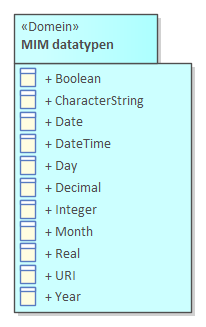
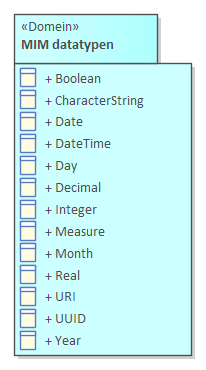
MIMCM-MIM-1.0-0-20240216-20260206-131741

Changed region(s): [[0.0583, 0.0306, 0.9612, 0.9786]]

diff --git a/data/mim-cat.respec.html b/data/mim-cat.respec.html
@@ -1,92 +1,169 @@
-<!DOCTYPE HTML><section id="cat" class="normative"><h2>Gegevensdefinitie</h2><!--MIMLM-MIM-1.0-0-20240216-20250930-105719 imvertor 4.4.0--><section id="EAID_17883B31_A5DA_413b_8BC8_4048AE36E1BD"><h3>   MIM datatypen - overzicht</h3><div class="imageinfo overview"><figure class="uml-diagram"><img id="EAID_17883B31_A5DA_413b_8BC8_4048AE36E1BD" src="data/Images/EAID_17883B31_A5DA_413b_8BC8_4048AE36E1BD.png" usemap="#imagemap-EAID_17883B31_A5DA_413b_8BC8_4048AE36E1BD" alt="Diagram: Overzicht van de primitieve datatypen uit het MIM model"><figcaption> ‒ Diagram: MIM datatypen</figcaption></figure><map name="imagemap-EAID_17883B31_A5DA_413b_8BC8_4048AE36E1BD"><area shape="rect" alt="Year" coords="14,14,137,96" href="#global_class_MIMdatatypen_Year"><area shape="rect" alt="URI" coords="153,14,276,96" href="#global_class_MIMdatatypen_URI"><area shape="rect" alt="Month" coords="294,14,417,96" href="#global_class_MIMdatatypen_Month"><area shape="rect" alt="Integer" coords="440,14,563,96" href="#global_class_MIMdatatypen_Integer"><area shape="rect" alt="Decimal" coords="14,116,137,198" href="#global_class_MIMdatatypen_Decimal"><area shape="rect" alt="Day" coords="153,116,276,198" href="#global_class_MIMdatatypen_Day"><area shape="rect" alt="DateTime" coords="294,116,417,198" href="#global_class_MIMdatatypen_DateTime"><area shape="rect" alt="Date" coords="440,116,563,198" href="#global_class_MIMdatatypen_Date"><area shape="rect" alt="CharacterString" coords="14,216,137,298" href="#global_class_MIMdatatypen_CharacterString"><area shape="rect" alt="Boolean" coords="159,216,282,298" href="#global_class_MIMdatatypen_Boolean"><area shape="rect" alt="Real" coords="298,216,421,298" href="#global_class_MIMdatatypen_Real"></map><p>
-                        <p>Overzicht van de primitieve datatypen uit het MIM model</p>
+<!DOCTYPE HTML><section id="cat" class="normative"><h2>Gegevensdefinitie</h2><!--MIMCM-MIM-1.0-0-20240216-20260206-131741 imvertor 4.4.0--><section id="EAID_17883B31_A5DA_413b_8BC8_4048AE36E1BD"><h3>   MIM datatypen - overzicht</h3><div class="imageinfo overview"><figure class="uml-diagram"><img id="EAID_17883B31_A5DA_413b_8BC8_4048AE36E1BD" src="data/Images/EAID_17883B31_A5DA_413b_8BC8_4048AE36E1BD.png" usemap="#imagemap-EAID_17883B31_A5DA_413b_8BC8_4048AE36E1BD" alt="Diagram: Overzicht van de primitieve datatypen uit het MIM model. Deze datatypen komen voor het merendeel uit ISO 19103:2024 Geographic information - Conceptual schema language."><figcaption> ‒ Diagram: MIM datatypen</figcaption></figure><map name="imagemap-EAID_17883B31_A5DA_413b_8BC8_4048AE36E1BD"><area shape="rect" alt="UUID" coords="217,387,340,469" href="#global_class_MIMdatatypen_UUID"><area shape="rect" alt="Measure" coords="14,387,137,469" href="#global_class_MIMdatatypen_Measure"><area shape="rect" alt="Year" coords="14,14,137,96" href="#global_class_MIMdatatypen_Year"><area shape="rect" alt="URI" coords="153,14,276,96" href="#global_class_MIMdatatypen_URI"><area shape="rect" alt="Month" coords="294,14,417,96" href="#global_class_MIMdatatypen_Month"><area shape="rect" alt="Integer" coords="440,14,563,96" href="#global_class_MIMdatatypen_Integer"><area shape="rect" alt="Decimal" coords="14,116,137,198" href="#global_class_MIMdatatypen_Decimal"><area shape="rect" alt="Day" coords="153,116,276,198" href="#global_class_MIMdatatypen_Day"><area shape="rect" alt="DateTime" coords="294,116,417,198" href="#global_class_MIMdatatypen_DateTime"><area shape="rect" alt="Date" coords="440,116,563,198" href="#global_class_MIMdatatypen_Date"><area shape="rect" alt="CharacterString" coords="14,216,137,298" href="#global_class_MIMdatatypen_CharacterString"><area shape="rect" alt="Boolean" coords="159,216,282,298" href="#global_class_MIMdatatypen_Boolean"><area shape="rect" alt="Real" coords="298,216,421,298" href="#global_class_MIMdatatypen_Real"></map><p>
+                        <p>Overzicht van de primitieve datatypen uit het MIM model. </p>
+                        <p></p>
+                        <p>Deze datatypen komen voor het merendeel uit ISO 19103:2024 Geographic information - Conceptual schema language.</p>
                      </p></div></section><section><h3>Primitieve datatypen   </h3>
             <section id="global_class_MIMdatatypen_Month"><h4>Primitief datatype   Month</h4>
-               <table style="width: 100%;"><colgroup style="width: 30%;"></colgroup><colgroup style="width: 70%;"></colgroup><tbody><tr><th>Naam</th><td>Month</td></tr><tr><th>Definitie</th><td>
+               <table style="width: 100%;"><colgroup style="width: 30%;"></colgroup><colgroup style="width: 70%;"></colgroup><tbody><tr><th>Naam</th><td>Month</td></tr><tr><th>Herkomst</th><td>
+                        ISO 19103-2024
+                     </td></tr><tr><th>Definitie</th><td>
                         
-                              <p>2-cijferige maand uitgedrukt in mm conform </p>
+                              <p>Eenheid van een tijdschaal gebaseerd op een verdeling van een kalenderjaar, waarbij elke maand een specifiek aantal kalenderdagen heeft.</p>
+                           
+                     </td></tr><tr><th>Toelichting</th><td>
+                        
+                              <p>In de Gregoriaanse kalender is een kalenderjaar verdeeld in 12 opeenvolgende kalendermaanden.
+2-cijferige maand uitgedrukt in mm conform </p>
                            
                      </td></tr></tbody></table>
             </section>
             <section id="global_class_MIMdatatypen_CharacterString"><h4>Primitief datatype   CharacterString</h4>
-               <table style="width: 100%;"><colgroup style="width: 30%;"></colgroup><colgroup style="width: 70%;"></colgroup><tbody><tr><th>Naam</th><td>CharacterString</td></tr><tr><th>Definitie</th><td>
+               <table style="width: 100%;"><colgroup style="width: 30%;"></colgroup><colgroup style="width: 70%;"></colgroup><tbody><tr><th>Naam</th><td>CharacterString</td></tr><tr><th>Herkomst</th><td>
+                        ISO 19103-2024
+                     </td></tr><tr><th>Definitie</th><td>
                         
-                              <p>Zie [iso-19103]. Vrij vertaald: alle alfanumerieke tekens en speciale tekens die horen bij de gekozen characterset (standaard UTF-8), dus met diakrieten, white spaces, -teken en newlines of HTML opmaak e.d. Mag starten met spatie. De maximale lengte is onbepaald.</p>
+                              <p>Gegevenstype voor een string van tekens van een standaard characterset.</p>
                            
                      </td></tr><tr><th>Toelichting</th><td>
                         
-                              <p>Opmerking: getallen (ISO Numbers) met voorloopnullen worden opgenomen als CharacterString, met een patroon of formeel patroon. Bij het metagegeven Waardenverzameling attribuutsoort wordt dit dan (ook) gespecificeerd.</p>
+                              <p>Zie [iso-19103]. Vrij vertaald: alle alfanumerieke tekens en speciale tekens die horen bij de gekozen characterset (standaard UTF-8), dus met diakrieten, white spaces, -teken en newlines of HTML opmaak e.d. Mag starten met spatie. De maximale lengte is onbepaald.
+Opmerking: getallen (ISO Numbers) met voorloopnullen worden opgenomen als CharacterString, met een patroon of formeel patroon. Bij het metagegeven Waardenverzameling attribuutsoort wordt dit dan (ook) gespecificeerd.</p>
                            
                      </td></tr></tbody></table>
             </section>
             <section id="global_class_MIMdatatypen_Date"><h4>Primitief datatype   Date</h4>
-               <table style="width: 100%;"><colgroup style="width: 30%;"></colgroup><colgroup style="width: 70%;"></colgroup><tbody><tr><th>Naam</th><td>Date</td></tr><tr><th>Definitie</th><td>
+               <table style="width: 100%;"><colgroup style="width: 30%;"></colgroup><colgroup style="width: 70%;"></colgroup><tbody><tr><th>Naam</th><td>Date</td></tr><tr><th>Herkomst</th><td>
+                        ISO 19103-2024
+                     </td></tr><tr><th>Definitie</th><td>
                         
-                              <p>4-cijferig jaar, 2-cijferig maand, 2-cijferig dag uitgedrukt in yyyy-mm-dd conform </p>
+                              <p>Gegevenstype voor een positie in tijd met een temporele resolutie van een dag.</p>
+                           
+                     </td></tr><tr><th>Toelichting</th><td>
+                        
+                              <p>4-cijferig jaar, 2-cijferig maand, 2-cijferig dag uitgedrukt in yyyy-mm-dd conform .
+Zie ook ISO/IEC 11404.</p>
+                           
+                     </td></tr></tbody></table>
+            </section>
+            <section id="global_class_MIMdatatypen_Measure"><h4>Primitief datatype   Measure</h4>
+               <table style="width: 100%;"><colgroup style="width: 30%;"></colgroup><colgroup style="width: 70%;"></colgroup><tbody><tr><th>Naam</th><td>Measure</td></tr><tr><th>Herkomst</th><td>
+                        ISO19103-2024
+                     </td></tr><tr><th>Definitie</th><td>
+                        
+                              <p>Een hoeveelheidswaarde die een meetresultaat vertegenwoordigt.</p>
                            
                      </td></tr></tbody></table>
             </section>
             <section id="global_class_MIMdatatypen_DateTime"><h4>Primitief datatype   DateTime</h4>
-               <table style="width: 100%;"><colgroup style="width: 30%;"></colgroup><colgroup style="width: 70%;"></colgroup><tbody><tr><th>Naam</th><td>DateTime</td></tr><tr><th>Definitie</th><td>
+               <table style="width: 100%;"><colgroup style="width: 30%;"></colgroup><colgroup style="width: 70%;"></colgroup><tbody><tr><th>Naam</th><td>DateTime</td></tr><tr><th>Herkomst</th><td>
+                        ISO 19103-2024
+                     </td></tr><tr><th>Definitie</th><td>
                         
-                              <p>yyyy-mm-ddThh:mm:ss conform </p>
+                              <p>Gegevenstype voor posities in tijd met een temporele resolutie van een deel van een seconde.</p>
+                           
+                     </td></tr><tr><th>Toelichting</th><td>
+                        
+                              <p>yyyy-mm-ddThh:mm:ss conform 
+Zie ook ISO/IEC 11404</p>
                            
                      </td></tr></tbody></table>
             </section>
             <section id="global_class_MIMdatatypen_Integer"><h4>Primitief datatype   Integer</h4>
-               <table style="width: 100%;"><colgroup style="width: 30%;"></colgroup><colgroup style="width: 70%;"></colgroup><tbody><tr><th>Naam</th><td>Integer</td></tr><tr><th>Definitie</th><td>
+               <table style="width: 100%;"><colgroup style="width: 30%;"></colgroup><colgroup style="width: 70%;"></colgroup><tbody><tr><th>Naam</th><td>Integer</td></tr><tr><th>Herkomst</th><td>
+                        ISO 19103-2024
+                     </td></tr><tr><th>Definitie</th><td>
+                        
+                              <p>Wiskundig gegevenstype bestaand uit exacte geheel getal.</p>
+                           
+                     </td></tr><tr><th>Toelichting</th><td>
                         
                               <p>Zie [iso-19103] (subtype van ISO Number). Vrij vertaald: geheel getal, lengte is minimaal 1 en maximale lengte is onbepaald, zonder voorloopnullen. Opmerking: t.a.v. positieve en negatieve getalen en + en - tekens: bijvoorbeeld -2,0 Het (formeel) patroon geeft aan of een + en/of - teken gebruikt mag worden in het gegeven.</p>
                            
                      </td></tr></tbody></table>
             </section>
             <section id="global_class_MIMdatatypen_URI"><h4>Primitief datatype   URI</h4>
-               <table style="width: 100%;"><colgroup style="width: 30%;"></colgroup><colgroup style="width: 70%;"></colgroup><tbody><tr><th>Naam</th><td>URI</td></tr><tr><th>Definitie</th><td>
+               <table style="width: 100%;"><colgroup style="width: 30%;"></colgroup><colgroup style="width: 70%;"></colgroup><tbody><tr><th>Naam</th><td>URI</td></tr><tr><th>Herkomst</th><td>
+                        ISO 19103-2024
+                     </td></tr><tr><th>Definitie</th><td>
+                        
+                              <p>Character string die conformeert aan de syntax gedefinieerd in RFC 3986.</p>
+                           
+                     </td></tr><tr><th>Toelichting</th><td>
                         
                               <p>Unieke identificatie op internet conform RFC3986 en de URI-strategie Linked Open Data. Gestandaardiseerde manier om op het internet dingen (pagina's met informatie, objecten, datasets) uniek te identificeren.</p>
                            
                      </td></tr></tbody></table>
             </section>
             <section id="global_class_MIMdatatypen_Decimal"><h4>Primitief datatype   Decimal</h4>
-               <table style="width: 100%;"><colgroup style="width: 30%;"></colgroup><colgroup style="width: 70%;"></colgroup><tbody><tr><th>Naam</th><td>Decimal</td></tr><tr><th>Definitie</th><td>
+               <table style="width: 100%;"><colgroup style="width: 30%;"></colgroup><colgroup style="width: 70%;"></colgroup><tbody><tr><th>Naam</th><td>Decimal</td></tr><tr><th>Herkomst</th><td>
+                        ISO 19103-2024
+                     </td></tr><tr><th>Definitie</th><td>
                         
-                              <p>Zie [iso-19103] (subtype van ISO Number). Vrij vertaald: een decimal is een gegevenstype waarin het getal een exacte waarde vertegenwoordigt, als een eindige weergave van een decimaal getal. </p>
+                              <p>Een gegevenstype waarin het getal een exacte waarde vertegenwoordigt, als een eindige weergave van een decimaal getal. </p>
                            
                      </td></tr><tr><th>Toelichting</th><td>
                         
-                              <p>Aangezien veel valuta's decimaal zijn, hebben deze weergaven de voorkeur bij het omgaan met dergelijke waarden.
+                              <p>Zie ook ISO/IEC 11404.
+Aangezien veel valuta's decimaal zijn, hebben deze weergaven de voorkeur bij het omgaan met dergelijke waarden.
 Opmerking 1: Dit verschilt van real, want real is een geschatte waarde en Decimal is exact. 
 Opmerking 2: t.a.v. positieve en negatieve getalen en + en - tekens: zie Integer.</p>
                            
                      </td></tr></tbody></table>
             </section>
             <section id="global_class_MIMdatatypen_Boolean"><h4>Primitief datatype   Boolean</h4>
-               <table style="width: 100%;"><colgroup style="width: 30%;"></colgroup><colgroup style="width: 70%;"></colgroup><tbody><tr><th>Naam</th><td>Boolean</td></tr><tr><th>Definitie</th><td>
+               <table style="width: 100%;"><colgroup style="width: 30%;"></colgroup><colgroup style="width: 70%;"></colgroup><tbody><tr><th>Naam</th><td>Boolean</td></tr><tr><th>Herkomst</th><td>
+                        ISO 19103-2024
+                     </td></tr><tr><th>Definitie</th><td>
                         
-                              <p>Indicatie met mogelijke waarden True, false, 1 of 0. True en 1 hebben een identieke betekenis: Ja. False en 0 hebben een identieke betekenis: Nee. Opmerking: t.a.v. Ja of Nee. </p>
+                              <p>Wiskundig gegevenstype gerelateerd aan twee-waarde logica.</p>
                            
                      </td></tr><tr><th>Toelichting</th><td>
                         
-                              <p>Wanneer u de Ja of Nee wilt gebruiken, gebruik dan bv. een Enumeratie genaamd Indicatie, of gebruik AN met een lengte en een (formeel) patroon.</p>
+                              <p>Indicatie met mogelijke waarden True, false, 1 of 0. True en 1 hebben een identieke betekenis: Ja. False en 0 hebben een identieke betekenis: Nee. Opmerking: t.a.v. Ja of Nee. 
+Wanneer u de Ja of Nee wilt gebruiken, gebruik dan bv. een Enumeratie genaamd Indicatie, of gebruik AN met een lengte en een (formeel) patroon.</p>
                            
                      </td></tr></tbody></table>
             </section>
             <section id="global_class_MIMdatatypen_Day"><h4>Primitief datatype   Day</h4>
-               <table style="width: 100%;"><colgroup style="width: 30%;"></colgroup><colgroup style="width: 70%;"></colgroup><tbody><tr><th>Naam</th><td>Day</td></tr><tr><th>Definitie</th><td>
+               <table style="width: 100%;"><colgroup style="width: 30%;"></colgroup><colgroup style="width: 70%;"></colgroup><tbody><tr><th>Naam</th><td>Day</td></tr><tr><th>Herkomst</th><td>
+                        ISO 19103-2024
+                     </td></tr><tr><th>Definitie</th><td>
                         
                               <p>2-cijferige dag uitgedrukt in dd conform </p>
                            
                      </td></tr></tbody></table>
             </section>
             <section id="global_class_MIMdatatypen_Year"><h4>Primitief datatype   Year</h4>
-               <table style="width: 100%;"><colgroup style="width: 30%;"></colgroup><colgroup style="width: 70%;"></colgroup><tbody><tr><th>Naam</th><td>Year</td></tr><tr><th>Definitie</th><td>
+               <table style="width: 100%;"><colgroup style="width: 30%;"></colgroup><colgroup style="width: 70%;"></colgroup><tbody><tr><th>Naam</th><td>Year</td></tr><tr><th>Herkomst</th><td>
+                        ISO 19103-2024
+                     </td></tr><tr><th>Definitie</th><td>
                         
-                              <p>4-cijferig jaar uitgedrukt in yyyy conform .</p>
+                              <p>Gegevenstype voor posities in tijd met een temporele resolutie van een jaar.</p>
+                           
+                     </td></tr><tr><th>Toelichting</th><td>
+                        
+                              <p>4-cijferig jaar uitgedrukt in yyyy conform .
+Zie ook See ISO/IEC 11404</p>
+                           
+                     </td></tr></tbody></table>
+            </section>
+            <section id="global_class_MIMdatatypen_UUID"><h4>Primitief datatype   UUID</h4>
+               <table style="width: 100%;"><colgroup style="width: 30%;"></colgroup><colgroup style="width: 70%;"></colgroup><tbody><tr><th>Naam</th><td>UUID</td></tr><tr><th>Herkomst</th><td>
+                        ISO 19103-2024
+                     </td></tr><tr><th>Definitie</th><td>
+                        
+                              <p>Gegevenstype waarvan de waarden conformeren aan ISO/IEC 9834-8.</p>
+                           
+                     </td></tr><tr><th>Toelichting</th><td>
+                        
+                              <p>Universal Unique Identifier</p>
                            
                      </td></tr></tbody></table>
             </section>
             <section id="global_class_MIMdatatypen_Real"><h4>Primitief datatype   Real</h4>
-               <table style="width: 100%;"><colgroup style="width: 30%;"></colgroup><colgroup style="width: 70%;"></colgroup><tbody><tr><th>Naam</th><td>Real</td></tr><tr><th>Definitie</th><td>
+               <table style="width: 100%;"><colgroup style="width: 30%;"></colgroup><colgroup style="width: 70%;"></colgroup><tbody><tr><th>Naam</th><td>Real</td></tr><tr><th>Herkomst</th><td>
+                        ISO 19103-2024
+                     </td></tr><tr><th>Definitie</th><td>
                         
                               <p>Zie [iso-19103] (subtype van ISO Number). Vrij vertaald: een real is een zwevendekommagetal, waarbij de precisie bepaald wordt door het aantal getoonde cijfers. Het getoonde getal is een schatting en geeft niet noodzakelijk de exacte waarde weer. </p>
                            
